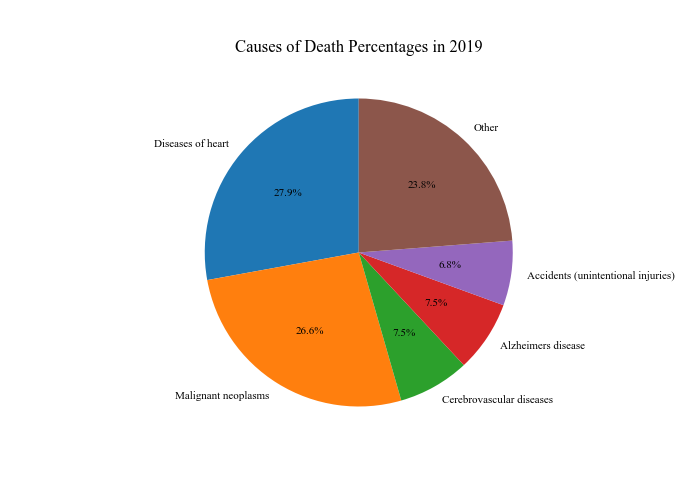
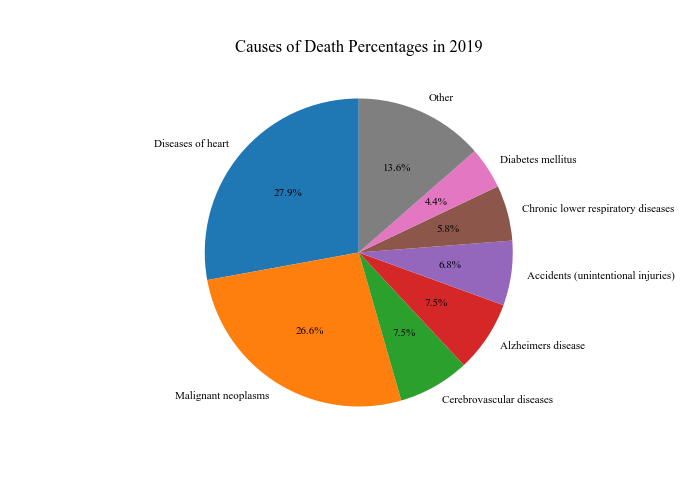
change for top 5 -> top 7 in pie chart

diff --git a/src/causeOfDeathData.py b/src/causeOfDeathData.py
@@ -67,12 +67,12 @@ def plot_total_pie(df, year):
     assert isinstance(year, int)
     df = df[df["Year"] == year]
     df = df.sort_values('Count', ascending=False)
-    df_top5 = df[:5].copy()
+    df_top5 = df[:7].copy()
     df_bottom = pd.DataFrame(data = {
         "Year":year,
         "Cause":"---",
         "Cause_Desc":"Other",
-        "Count":[df["Count"][5:].sum()]
+        "Count":[df["Count"][7:].sum()]
     })
     df = pd.concat([df_top5, df_bottom])
     fig = plt.figure(figsize=(7,5))
